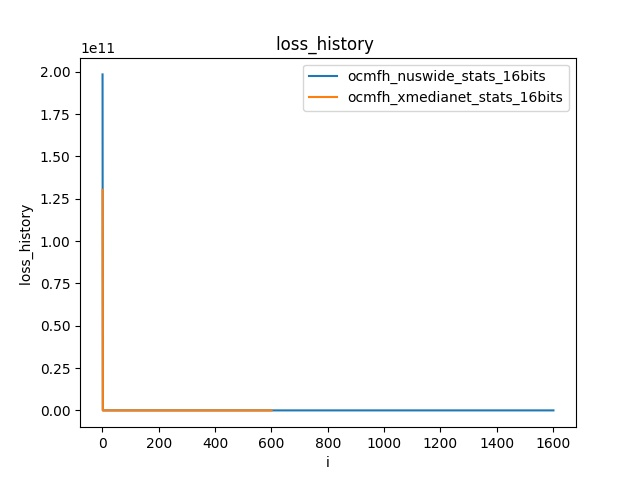
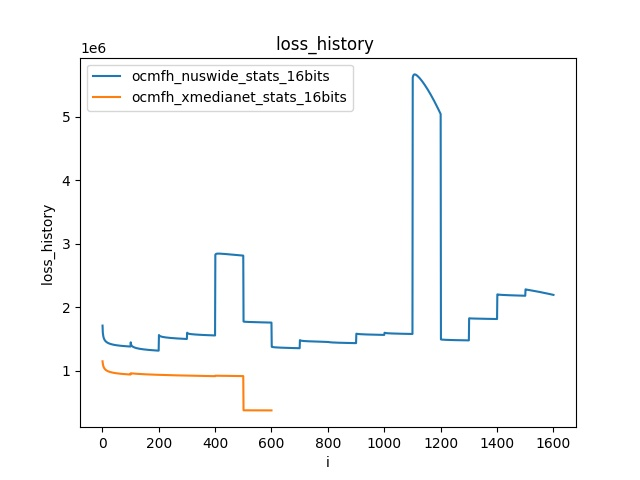
Pushed graphs

diff --git a/Framework/compare.py b/Framework/compare.py
@@ -14,20 +14,29 @@ class Comparator:
         Get more info about input format : python compare.py --help
     '''
     def __init__(self, files):
+        self.files = files
         assert len(files) > 0 and files[0] != '', 'No file/empty filename provided!!'
-        self.stats = [np.load(f, allow_pickle=True)[()] for f in files]
+        self.stats = [self.load_stats(f) for f in files]
         self.labels = [path.basename(f).split('.')[0] for f in files]
         self.comparisions = {}
         self.outdir = '_V_'.join(self.labels)
         if not path.exists(self.outdir):
             os.makedirs(self.outdir)
-    '''
-        creates a bar plot
-        supported tags - params_size, training_time, inference_time
-        other tags can also be used, but consistency has to be ensured by the user
-        Here upto 3 levels can be handled. For example : stats['data_stats']['train']['num_samples']
-    '''  
+
+    def load_stats(self, file):
+        encoding = 'ASCII'
+        if 'py2' in file:
+            # This is because files dumped in python2 have different encoding
+            encoding = 'latin1'
+        return np.load(file, allow_pickle=True, encoding=encoding)[()]
+
     def createBarPlot(self, tag, subtag1='', subtag2=''):
+        '''
+            creates a bar plot
+            supported tags - params_size, training_time, inference_time
+            other tags can also be used, but consistency has to be ensured by the user
+            Here upto 3 levels can be handled. For example : stats['data_stats']['train']['num_samples']
+        ''' 
         labels = self.labels
         values = [s[tag] for s in self.stats]
         if subtag1 != '':
@@ -39,16 +48,17 @@ class Comparator:
         outfile = path.join(self.outdir, '{} {} {}.jpeg'.format(tag, subtag1, subtag2))
         plt.savefig(outfile)
         plt.close()
-    '''
-        supported tags: loss_histry, metrics
-        If the metric object is 2-level, then a subtag can be provided as well
-        For example -> self.stats1[tag][subtag]
-        Note subtag2 != '' only if subtag1 != ''
-        This function does not handle 3-level tags, unlike createBarPlot()
-        Here, when 2nd tag is provided then 1st tag serves as y-axis and 2nd as x-axis
-        For example -> precision-recall curves
-    '''
+    
     def createLinePlot(self, tag, subtag1='', subtag2=''):
+        '''
+            supported tags: loss_histry, metrics
+            If the metric object is 2-level, then a subtag can be provided as well
+            For example -> self.stats1[tag][subtag]
+            Note subtag2 != '' only if subtag1 != ''
+            This function does not handle 3-level tags, unlike createBarPlot()
+            Here, when 2nd tag is provided then 1st tag serves as y-axis and 2nd as x-axis
+            For example -> precision-recall curves
+        '''
         is_biaxial = False
         subtag = subtag1
         if subtag1 != '' and subtag2 != '':
@@ -63,6 +73,11 @@ class Comparator:
             line = self.stats[i][tag]
             if subtag1 != '':
                 line = line[subtag1]
+
+            # ######## UNCOMMENT THIS SECTION IF USING THE STATS PROVIDED IN THE GIT-REPO
+            if tag=='loss_history':
+                line = line[1:]
+            # ###########
             indices = [j for j in range(1,len(line)+1)]
             # In this case we replace indices by subtag2 readings
             if subtag2 != '':
@@ -86,7 +101,8 @@ def get_arguments():
     metrics_dual_attributes = 'metrics:pre_ttoi:recall_ttoi, metrics:pre_itot:recall_itot'
     default_line_tags = ','.join([metrics_attributes, metrics_dual_attributes, 'loss_history'])
 
-    default_bar_tags = 'training_time, params_size, prediction_time, data_stats:train:num_samples, data_stats:train:num_classes'
+    default_bar_tags = 'training_time, params_size, prediction_time'
+    # default_bar_tags = 'training_time, params_size, prediction_time, data_stats:train:num_samples, data_stats:train:num_classes'
 
 
     a('--filepaths', type=str, 

diff --git a/Framework/model.py b/Framework/model.py
@@ -121,7 +121,7 @@ class Model:
         end = time.time()
 
         self.params = params
-        self.stats['loss_history'] = losses
+        self.stats['loss_history'] = losses[1:]
         self.logs.append(logs)
         self.stats['training_time'] = (end-start)
 
